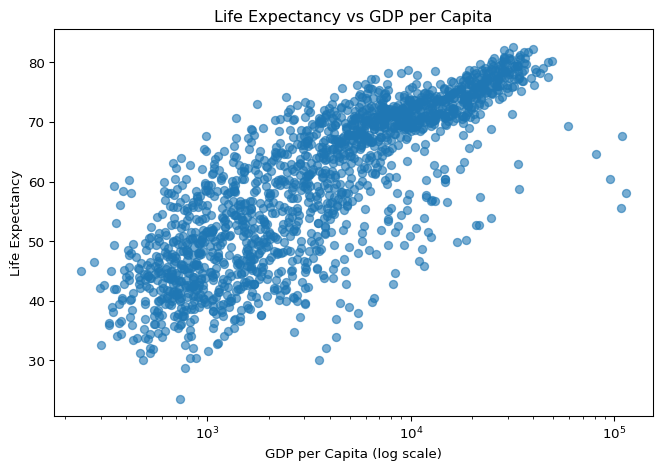
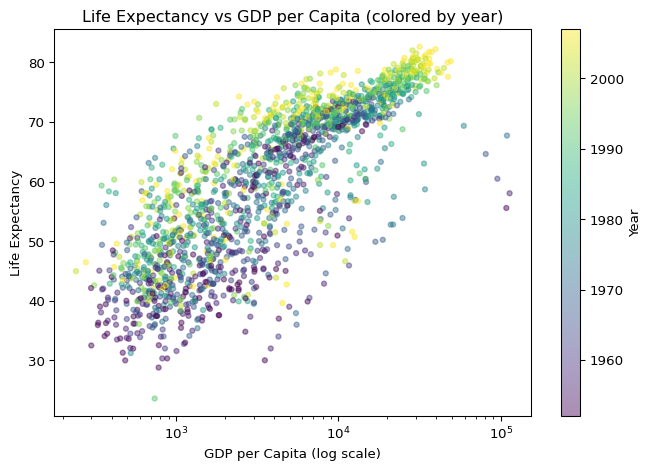
Redraw figures with clearer time coloring and scales

diff --git a/docs/country.html b/docs/country.html
@@ -7,7 +7,7 @@
 <meta name="viewport" content="width=device-width, initial-scale=1.0, user-scalable=yes">
 
 
-<title>Country Analysis – DATASCI 350 - Quiz 02</title>
+<title>country – DATASCI 350 - Quiz 02</title>
 <style>
 code{white-space: pre-wrap;}
 span.smallcaps{font-variant: small-caps;}
@@ -151,49 +151,62 @@ pre > code.sourceCode > span > a:first-child::before { text-decoration: underlin
 <div id="quarto-content" class="quarto-container page-columns page-rows-contents page-layout-article page-navbar">
 <!-- sidebar -->
 <!-- margin-sidebar -->
-    <div id="quarto-margin-sidebar" class="sidebar margin-sidebar zindex-bottom">
-        
+    <div id="quarto-margin-sidebar" class="sidebar margin-sidebar">
+        <nav id="TOC" role="doc-toc" class="toc-active">
+    <h2 id="toc-title">On this page</h2>
+   
+  <ul>
+  <li><a href="#country.qmd重新画选一个国家3-个变量分面随时间变化更清楚" id="toc-country.qmd重新画选一个国家3-个变量分面随时间变化更清楚" class="nav-link active" data-scroll-target="#country.qmd重新画选一个国家3-个变量分面随时间变化更清楚">3) <code>country.qmd</code>（重新画：选一个国家，3 个变量分面随时间变化，更清楚）</a></li>
+  </ul>
+</nav>
     </div>
 <!-- main -->
-<main class="content" id="quarto-document-content">
-
-<header id="title-block-header" class="quarto-title-block default">
-<div class="quarto-title">
-<h1 class="title">Country Analysis</h1>
-</div>
+<main class="content" id="quarto-document-content"><header id="title-block-header" class="quarto-title-block"></header>
 
 
 
-<div class="quarto-title-meta">
 
-    
-  
-    
-  </div>
-  
-
-
-</header>
-
-
-<p>This page tracks changes in life expectancy, GDP per capita, and population over time for the United States.</p>
-<div id="a761b8d8" class="cell" data-execution_count="1">
-<div class="code-copy-outer-scaffold"><div class="sourceCode cell-code" id="cb1"><pre class="sourceCode python code-with-copy"><code class="sourceCode python"><span id="cb1-1"><a href="#cb1-1" aria-hidden="true" tabindex="-1"></a><span class="im">import</span> pandas <span class="im">as</span> pd</span>
-<span id="cb1-2"><a href="#cb1-2" aria-hidden="true" tabindex="-1"></a><span class="im">import</span> matplotlib.pyplot <span class="im">as</span> plt</span>
-<span id="cb1-3"><a href="#cb1-3" aria-hidden="true" tabindex="-1"></a></span>
-<span id="cb1-4"><a href="#cb1-4" aria-hidden="true" tabindex="-1"></a>df <span class="op">=</span> pd.read_csv(<span class="st">"gapminder.csv"</span>)</span>
-<span id="cb1-5"><a href="#cb1-5" aria-hidden="true" tabindex="-1"></a>c <span class="op">=</span> df[df[<span class="st">"country"</span>] <span class="op">==</span> <span class="st">"United States"</span>].sort_values(<span class="st">"year"</span>)</span>
+<hr>
+<section id="country.qmd重新画选一个国家3-个变量分面随时间变化更清楚" class="level3">
+<h3 class="anchored" data-anchor-id="country.qmd重新画选一个国家3-个变量分面随时间变化更清楚">3) <code>country.qmd</code>（重新画：选一个国家，3 个变量分面随时间变化，更清楚）</h3>
+<div class="code-copy-outer-scaffold"><div class="sourceCode" id="cb1"><pre class="sourceCode markdown code-with-copy"><code class="sourceCode markdown"><span id="cb1-1"><a href="#cb1-1" aria-hidden="true" tabindex="-1"></a><span class="co">---</span></span>
+<span id="cb1-2"><a href="#cb1-2" aria-hidden="true" tabindex="-1"></a><span class="an">title:</span><span class="co"> "Country Analysis"</span></span>
+<span id="cb1-3"><a href="#cb1-3" aria-hidden="true" tabindex="-1"></a><span class="co">---</span></span>
+<span id="cb1-4"><a href="#cb1-4" aria-hidden="true" tabindex="-1"></a></span>
+<span id="cb1-5"><a href="#cb1-5" aria-hidden="true" tabindex="-1"></a>This page tracks changes in life expectancy, GDP per capita, and population over time for one country.</span>
 <span id="cb1-6"><a href="#cb1-6" aria-hidden="true" tabindex="-1"></a></span>
-<span id="cb1-7"><a href="#cb1-7" aria-hidden="true" tabindex="-1"></a>plt.figure()</span>
-<span id="cb1-8"><a href="#cb1-8" aria-hidden="true" tabindex="-1"></a>plt.plot(c[<span class="st">"year"</span>], c[<span class="st">"life_expectancy"</span>], marker<span class="op">=</span><span class="st">"o"</span>, label<span class="op">=</span><span class="st">"Life Expectancy"</span>)</span>
-<span id="cb1-9"><a href="#cb1-9" aria-hidden="true" tabindex="-1"></a>plt.plot(c[<span class="st">"year"</span>], c[<span class="st">"gdp_per_capita"</span>], marker<span class="op">=</span><span class="st">"o"</span>, label<span class="op">=</span><span class="st">"GDP per Capita"</span>)</span>
-<span id="cb1-10"><a href="#cb1-10" aria-hidden="true" tabindex="-1"></a>plt.plot(c[<span class="st">"year"</span>], c[<span class="st">"population_millions"</span>], marker<span class="op">=</span><span class="st">"o"</span>, label<span class="op">=</span><span class="st">"Population (millions)"</span>)</span>
-<span id="cb1-11"><a href="#cb1-11" aria-hidden="true" tabindex="-1"></a>plt.xlabel(<span class="st">"Year"</span>)</span>
-<span id="cb1-12"><a href="#cb1-12" aria-hidden="true" tabindex="-1"></a>plt.ylabel(<span class="st">"Value"</span>)</span>
-<span id="cb1-13"><a href="#cb1-13" aria-hidden="true" tabindex="-1"></a>plt.title(<span class="st">"United States Over Time"</span>)</span>
-<span id="cb1-14"><a href="#cb1-14" aria-hidden="true" tabindex="-1"></a>plt.legend()</span>
-<span id="cb1-15"><a href="#cb1-15" aria-hidden="true" tabindex="-1"></a>plt.tight_layout()</span>
-<span id="cb1-16"><a href="#cb1-16" aria-hidden="true" tabindex="-1"></a>plt.show()</span></code></pre></div><button title="Copy to Clipboard" class="code-copy-button"><i class="bi"></i></button></div>
+<span id="cb1-7"><a href="#cb1-7" aria-hidden="true" tabindex="-1"></a>::: {#d8b25682 .cell execution_count=1}</span>
+<span id="cb1-8"><a href="#cb1-8" aria-hidden="true" tabindex="-1"></a><span class="in">``` {.python .cell-code}</span></span>
+<span id="cb1-9"><a href="#cb1-9" aria-hidden="true" tabindex="-1"></a><span class="im">import</span> pandas <span class="im">as</span> pd</span>
+<span id="cb1-10"><a href="#cb1-10" aria-hidden="true" tabindex="-1"></a><span class="im">import</span> matplotlib.pyplot <span class="im">as</span> plt</span>
+<span id="cb1-11"><a href="#cb1-11" aria-hidden="true" tabindex="-1"></a></span>
+<span id="cb1-12"><a href="#cb1-12" aria-hidden="true" tabindex="-1"></a>df <span class="op">=</span> pd.read_csv(<span class="st">"gapminder.csv"</span>)</span>
+<span id="cb1-13"><a href="#cb1-13" aria-hidden="true" tabindex="-1"></a>country_name <span class="op">=</span> <span class="st">"United States"</span></span>
+<span id="cb1-14"><a href="#cb1-14" aria-hidden="true" tabindex="-1"></a></span>
+<span id="cb1-15"><a href="#cb1-15" aria-hidden="true" tabindex="-1"></a>c <span class="op">=</span> df[df[<span class="st">"country"</span>] <span class="op">==</span> country_name].sort_values(<span class="st">"year"</span>).dropna(</span>
+<span id="cb1-16"><a href="#cb1-16" aria-hidden="true" tabindex="-1"></a>    subset<span class="op">=</span>[<span class="st">"year"</span>, <span class="st">"life_expectancy"</span>, <span class="st">"gdp_per_capita"</span>, <span class="st">"population_millions"</span>]</span>
+<span id="cb1-17"><a href="#cb1-17" aria-hidden="true" tabindex="-1"></a>)</span>
+<span id="cb1-18"><a href="#cb1-18" aria-hidden="true" tabindex="-1"></a></span>
+<span id="cb1-19"><a href="#cb1-19" aria-hidden="true" tabindex="-1"></a>years <span class="op">=</span> c[<span class="st">"year"</span>].astype(<span class="bu">int</span>)</span>
+<span id="cb1-20"><a href="#cb1-20" aria-hidden="true" tabindex="-1"></a></span>
+<span id="cb1-21"><a href="#cb1-21" aria-hidden="true" tabindex="-1"></a>plt.figure(figsize<span class="op">=</span>(<span class="dv">8</span>, <span class="dv">8</span>))</span>
+<span id="cb1-22"><a href="#cb1-22" aria-hidden="true" tabindex="-1"></a></span>
+<span id="cb1-23"><a href="#cb1-23" aria-hidden="true" tabindex="-1"></a>ax1 <span class="op">=</span> plt.subplot(<span class="dv">3</span>, <span class="dv">1</span>, <span class="dv">1</span>)</span>
+<span id="cb1-24"><a href="#cb1-24" aria-hidden="true" tabindex="-1"></a>ax1.plot(years, c[<span class="st">"life_expectancy"</span>], marker<span class="op">=</span><span class="st">"o"</span>)</span>
+<span id="cb1-25"><a href="#cb1-25" aria-hidden="true" tabindex="-1"></a>ax1.set_ylabel(<span class="st">"Life Expectancy"</span>)</span>
+<span id="cb1-26"><a href="#cb1-26" aria-hidden="true" tabindex="-1"></a>ax1.set_title(<span class="ss">f"</span><span class="sc">{</span>country_name<span class="sc">}</span><span class="ss">: Trends Over Time"</span>)</span>
+<span id="cb1-27"><a href="#cb1-27" aria-hidden="true" tabindex="-1"></a></span>
+<span id="cb1-28"><a href="#cb1-28" aria-hidden="true" tabindex="-1"></a>ax2 <span class="op">=</span> plt.subplot(<span class="dv">3</span>, <span class="dv">1</span>, <span class="dv">2</span>)</span>
+<span id="cb1-29"><a href="#cb1-29" aria-hidden="true" tabindex="-1"></a>ax2.plot(years, c[<span class="st">"gdp_per_capita"</span>], marker<span class="op">=</span><span class="st">"o"</span>)</span>
+<span id="cb1-30"><a href="#cb1-30" aria-hidden="true" tabindex="-1"></a>ax2.set_ylabel(<span class="st">"GDP per Capita"</span>)</span>
+<span id="cb1-31"><a href="#cb1-31" aria-hidden="true" tabindex="-1"></a></span>
+<span id="cb1-32"><a href="#cb1-32" aria-hidden="true" tabindex="-1"></a>ax3 <span class="op">=</span> plt.subplot(<span class="dv">3</span>, <span class="dv">1</span>, <span class="dv">3</span>)</span>
+<span id="cb1-33"><a href="#cb1-33" aria-hidden="true" tabindex="-1"></a>ax3.plot(years, c[<span class="st">"population_millions"</span>], marker<span class="op">=</span><span class="st">"o"</span>)</span>
+<span id="cb1-34"><a href="#cb1-34" aria-hidden="true" tabindex="-1"></a>ax3.set_ylabel(<span class="st">"Population (millions)"</span>)</span>
+<span id="cb1-35"><a href="#cb1-35" aria-hidden="true" tabindex="-1"></a>ax3.set_xlabel(<span class="st">"Year"</span>)</span>
+<span id="cb1-36"><a href="#cb1-36" aria-hidden="true" tabindex="-1"></a></span>
+<span id="cb1-37"><a href="#cb1-37" aria-hidden="true" tabindex="-1"></a>plt.tight_layout()</span>
+<span id="cb1-38"><a href="#cb1-38" aria-hidden="true" tabindex="-1"></a>plt.show()</span></code></pre></div><button title="Copy to Clipboard" class="code-copy-button"><i class="bi"></i></button></div>
 <div class="cell-output cell-output-display">
 <div>
 <figure class="figure">
@@ -201,9 +214,10 @@ pre > code.sourceCode > span > a:first-child::before { text-decoration: underlin
 </figure>
 </div>
 </div>
-</div>
+<p>:::</p>
 
 
+</section>
 
 </main> <!-- /main -->
 <script id="quarto-html-after-body" type="application/javascript">

diff --git a/docs/life-gdp.html b/docs/life-gdp.html
@@ -176,21 +176,28 @@ pre > code.sourceCode > span > a:first-child::before { text-decoration: underlin
 </header>
 
 
-<p>This page examines how life expectancy relates to GDP per capita across countries.</p>
-<div id="db628d75" class="cell" data-execution_count="1">
+<p>This page examines how life expectancy relates to GDP per capita across countries and over time (colored by year).</p>
+<div id="ac2fe231" class="cell" data-execution_count="1">
 <div class="code-copy-outer-scaffold"><div class="sourceCode cell-code" id="cb1"><pre class="sourceCode python code-with-copy"><code class="sourceCode python"><span id="cb1-1"><a href="#cb1-1" aria-hidden="true" tabindex="-1"></a><span class="im">import</span> pandas <span class="im">as</span> pd</span>
-<span id="cb1-2"><a href="#cb1-2" aria-hidden="true" tabindex="-1"></a><span class="im">import</span> matplotlib.pyplot <span class="im">as</span> plt</span>
-<span id="cb1-3"><a href="#cb1-3" aria-hidden="true" tabindex="-1"></a></span>
-<span id="cb1-4"><a href="#cb1-4" aria-hidden="true" tabindex="-1"></a>df <span class="op">=</span> pd.read_csv(<span class="st">"gapminder.csv"</span>)</span>
-<span id="cb1-5"><a href="#cb1-5" aria-hidden="true" tabindex="-1"></a></span>
-<span id="cb1-6"><a href="#cb1-6" aria-hidden="true" tabindex="-1"></a>plt.figure()</span>
-<span id="cb1-7"><a href="#cb1-7" aria-hidden="true" tabindex="-1"></a>plt.scatter(df[<span class="st">"gdp_per_capita"</span>], df[<span class="st">"life_expectancy"</span>], alpha<span class="op">=</span><span class="fl">0.6</span>)</span>
-<span id="cb1-8"><a href="#cb1-8" aria-hidden="true" tabindex="-1"></a>plt.xscale(<span class="st">"log"</span>)</span>
-<span id="cb1-9"><a href="#cb1-9" aria-hidden="true" tabindex="-1"></a>plt.xlabel(<span class="st">"GDP per Capita (log scale)"</span>)</span>
-<span id="cb1-10"><a href="#cb1-10" aria-hidden="true" tabindex="-1"></a>plt.ylabel(<span class="st">"Life Expectancy"</span>)</span>
-<span id="cb1-11"><a href="#cb1-11" aria-hidden="true" tabindex="-1"></a>plt.title(<span class="st">"Life Expectancy vs GDP per Capita"</span>)</span>
-<span id="cb1-12"><a href="#cb1-12" aria-hidden="true" tabindex="-1"></a>plt.tight_layout()</span>
-<span id="cb1-13"><a href="#cb1-13" aria-hidden="true" tabindex="-1"></a>plt.show()</span></code></pre></div><button title="Copy to Clipboard" class="code-copy-button"><i class="bi"></i></button></div>
+<span id="cb1-2"><a href="#cb1-2" aria-hidden="true" tabindex="-1"></a><span class="im">import</span> numpy <span class="im">as</span> np</span>
+<span id="cb1-3"><a href="#cb1-3" aria-hidden="true" tabindex="-1"></a><span class="im">import</span> matplotlib.pyplot <span class="im">as</span> plt</span>
+<span id="cb1-4"><a href="#cb1-4" aria-hidden="true" tabindex="-1"></a></span>
+<span id="cb1-5"><a href="#cb1-5" aria-hidden="true" tabindex="-1"></a>df <span class="op">=</span> pd.read_csv(<span class="st">"gapminder.csv"</span>).dropna(subset<span class="op">=</span>[<span class="st">"gdp_per_capita"</span>, <span class="st">"life_expectancy"</span>, <span class="st">"year"</span>])</span>
+<span id="cb1-6"><a href="#cb1-6" aria-hidden="true" tabindex="-1"></a>df <span class="op">=</span> df[df[<span class="st">"gdp_per_capita"</span>] <span class="op">&gt;</span> <span class="dv">0</span>].copy()</span>
+<span id="cb1-7"><a href="#cb1-7" aria-hidden="true" tabindex="-1"></a></span>
+<span id="cb1-8"><a href="#cb1-8" aria-hidden="true" tabindex="-1"></a>x <span class="op">=</span> df[<span class="st">"gdp_per_capita"</span>].astype(<span class="bu">float</span>).to_numpy()</span>
+<span id="cb1-9"><a href="#cb1-9" aria-hidden="true" tabindex="-1"></a>y <span class="op">=</span> df[<span class="st">"life_expectancy"</span>].astype(<span class="bu">float</span>).to_numpy()</span>
+<span id="cb1-10"><a href="#cb1-10" aria-hidden="true" tabindex="-1"></a>t <span class="op">=</span> df[<span class="st">"year"</span>].astype(<span class="bu">int</span>).to_numpy()</span>
+<span id="cb1-11"><a href="#cb1-11" aria-hidden="true" tabindex="-1"></a></span>
+<span id="cb1-12"><a href="#cb1-12" aria-hidden="true" tabindex="-1"></a>plt.figure()</span>
+<span id="cb1-13"><a href="#cb1-13" aria-hidden="true" tabindex="-1"></a>sc <span class="op">=</span> plt.scatter(x, y, c<span class="op">=</span>t, s<span class="op">=</span><span class="dv">14</span>, alpha<span class="op">=</span><span class="fl">0.45</span>)</span>
+<span id="cb1-14"><a href="#cb1-14" aria-hidden="true" tabindex="-1"></a>plt.xscale(<span class="st">"log"</span>)</span>
+<span id="cb1-15"><a href="#cb1-15" aria-hidden="true" tabindex="-1"></a>plt.xlabel(<span class="st">"GDP per Capita (log scale)"</span>)</span>
+<span id="cb1-16"><a href="#cb1-16" aria-hidden="true" tabindex="-1"></a>plt.ylabel(<span class="st">"Life Expectancy"</span>)</span>
+<span id="cb1-17"><a href="#cb1-17" aria-hidden="true" tabindex="-1"></a>plt.title(<span class="st">"Life Expectancy vs GDP per Capita (colored by year)"</span>)</span>
+<span id="cb1-18"><a href="#cb1-18" aria-hidden="true" tabindex="-1"></a>plt.colorbar(sc, label<span class="op">=</span><span class="st">"Year"</span>)</span>
+<span id="cb1-19"><a href="#cb1-19" aria-hidden="true" tabindex="-1"></a>plt.tight_layout()</span>
+<span id="cb1-20"><a href="#cb1-20" aria-hidden="true" tabindex="-1"></a>plt.show()</span></code></pre></div><button title="Copy to Clipboard" class="code-copy-button"><i class="bi"></i></button></div>
 <div class="cell-output cell-output-display">
 <div>
 <figure class="figure">

diff --git a/docs/life-population.html b/docs/life-population.html
@@ -160,7 +160,7 @@ pre > code.sourceCode > span > a:first-child::before { text-decoration: underlin
 
 
 
-<div id="7917665f" class="cell" data-execution_count="1">
+<div id="e8dcb940" class="cell" data-execution_count="1">
 <div class="code-copy-outer-scaffold"><div class="sourceCode cell-code" id="cb1"><pre class="sourceCode python code-with-copy"><code class="sourceCode python"><span id="cb1-1"><a href="#cb1-1" aria-hidden="true" tabindex="-1"></a><span class="im">import</span> pandas <span class="im">as</span> pd</span>
 <span id="cb1-2"><a href="#cb1-2" aria-hidden="true" tabindex="-1"></a><span class="im">import</span> matplotlib.pyplot <span class="im">as</span> plt</span>
 <span id="cb1-3"><a href="#cb1-3" aria-hidden="true" tabindex="-1"></a><span class="im">import</span> numpy <span class="im">as</span> np</span>
